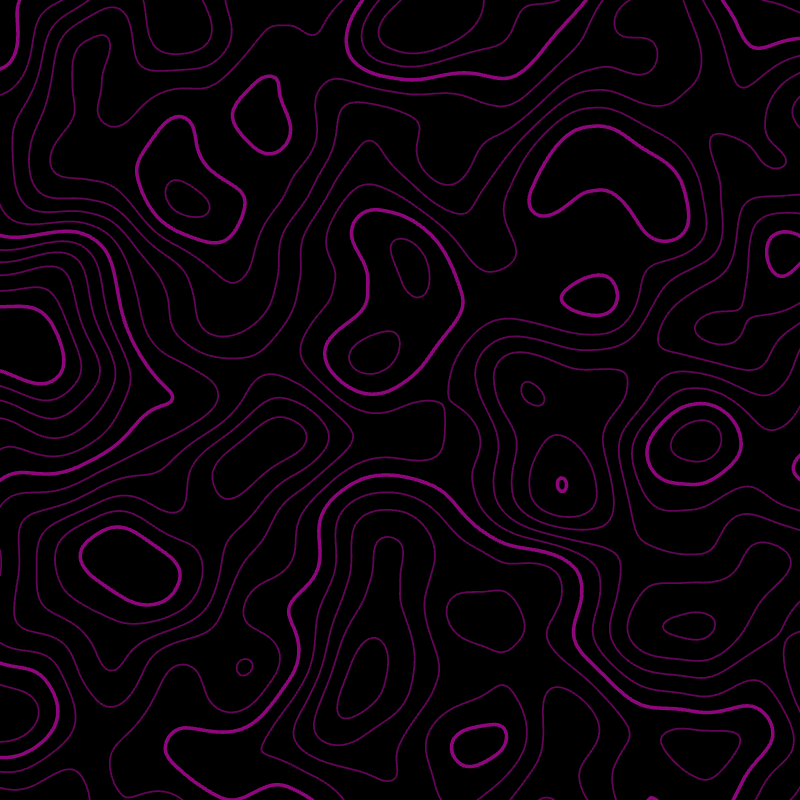
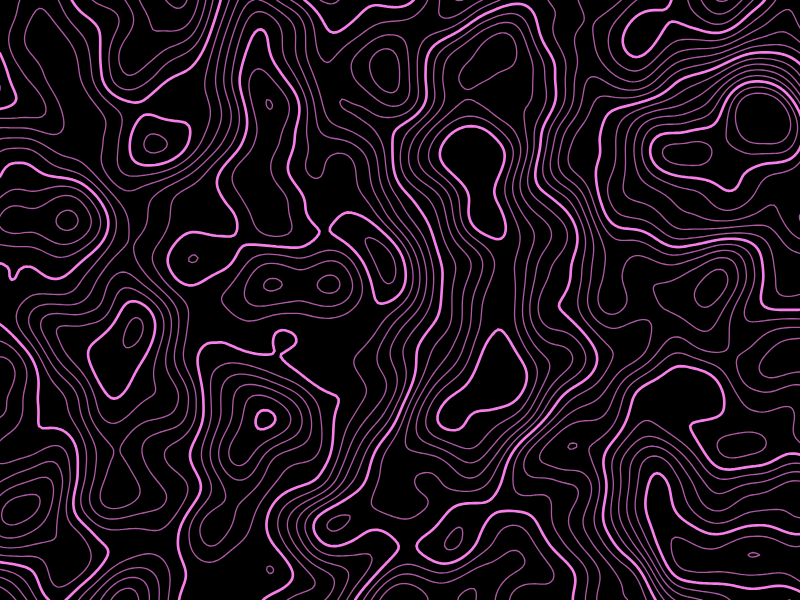
cloud drawing function aswell as pre-rendering the preview boxes

Changed region(s): [[0.0, 0.0, 1.0, 1.0]]

diff --git a/frontend/style.css b/frontend/style.css
@@ -500,21 +500,22 @@ main > .card + .card {
 }
 
 .pill[data-preview="solid"] {
-	--preview-bg: var(--c1, #f77fe9);
+	--preview-bg: url("../assets/previews/images/solid.png");
+	background-size: 100% 100%;
+	background-position: center;
+	background-repeat: no-repeat;
 }
 .pill[data-preview="gradient"] {
-	--preview-bg: linear-gradient(
-		to bottom,
-		var(--c1, #f77fe9),
-		var(--c2, #341294)
-	);
+	--preview-bg: url("../assets/previews/images/vert-gradient.png");
+	background-size: 100% 100%;
+	background-position: center;
+	background-repeat: no-repeat;
 }
 .pill[data-preview="radial"] {
-	--preview-bg: radial-gradient(
-		circle at center,
-		var(--c1, #f77fe9),
-		var(--c2, #341294)
-	);
+	--preview-bg: url("../assets/previews/images/rad-gradient.png");
+	background-size: 100% 100%;
+	background-position: center;
+	background-repeat: no-repeat;
 }
 
 .pill[data-preview="plasma"]::after {
@@ -525,13 +526,10 @@ main > .card + .card {
 }
 
 .pill[data-preview="checker"] {
-	--preview-bg: conic-gradient(
-			var(--c1, #f77fe9) 25%,
-			var(--c2, #2f7fe0) 0 50%,
-			var(--c1, #f77fe9) 0 75%,
-			var(--c2, #2f7fe0) 0
-		)
-		0 0 / 20px 20px;
+	--preview-bg: url("../assets/previews/images/checker.png");
+	background-size: 100% 100%;
+	background-position: center;
+	background-repeat: no-repeat;
 }
 
 .pill[data-preview="noise"] {

diff --git a/frontend/video.html b/frontend/video.html
@@ -29,7 +29,7 @@
 		</header>
 
 		<main>
-			<h2>video</h2>
+			<h1>COMING SOON</h1>
 			<p>gen video placeholders here</p>
 		</main>
 

diff --git a/frontend/docs.html b/frontend/docs.html
@@ -29,7 +29,7 @@
 		</header>
 
 		<main>
-			<h2>hi</h2>
+			<h1>COMING SOON</h1>
 			<p>gen docs placeholders here</p>
 		</main>
 

diff --git a/frontend/audio.html b/frontend/audio.html
@@ -29,7 +29,7 @@
 		</header>
 
 		<main>
-			<h2>hi</h2>
+			<h1>COMING SOON</h1>
 			<p>gen audio test files here</p>
 		</main>
 

diff --git a/readme.md b/readme.md
@@ -13,3 +13,11 @@ make custom dropdown component cuz it look out of place
 rip the universal error handling from hanova and put the errors in the default html alerts
 noise do: colored/grayscale/two color
 combine gradient into one gradient and add four corner horizontal/vertical etc
+conic gradient
+polka dots
+triangles,checker,hexagon,other tiling
+voronoi
+glitch / scanlines / chromatic abberation (input an image)
+like 10 fractal variants
+wax swirls
+Kaleidoscope x10
